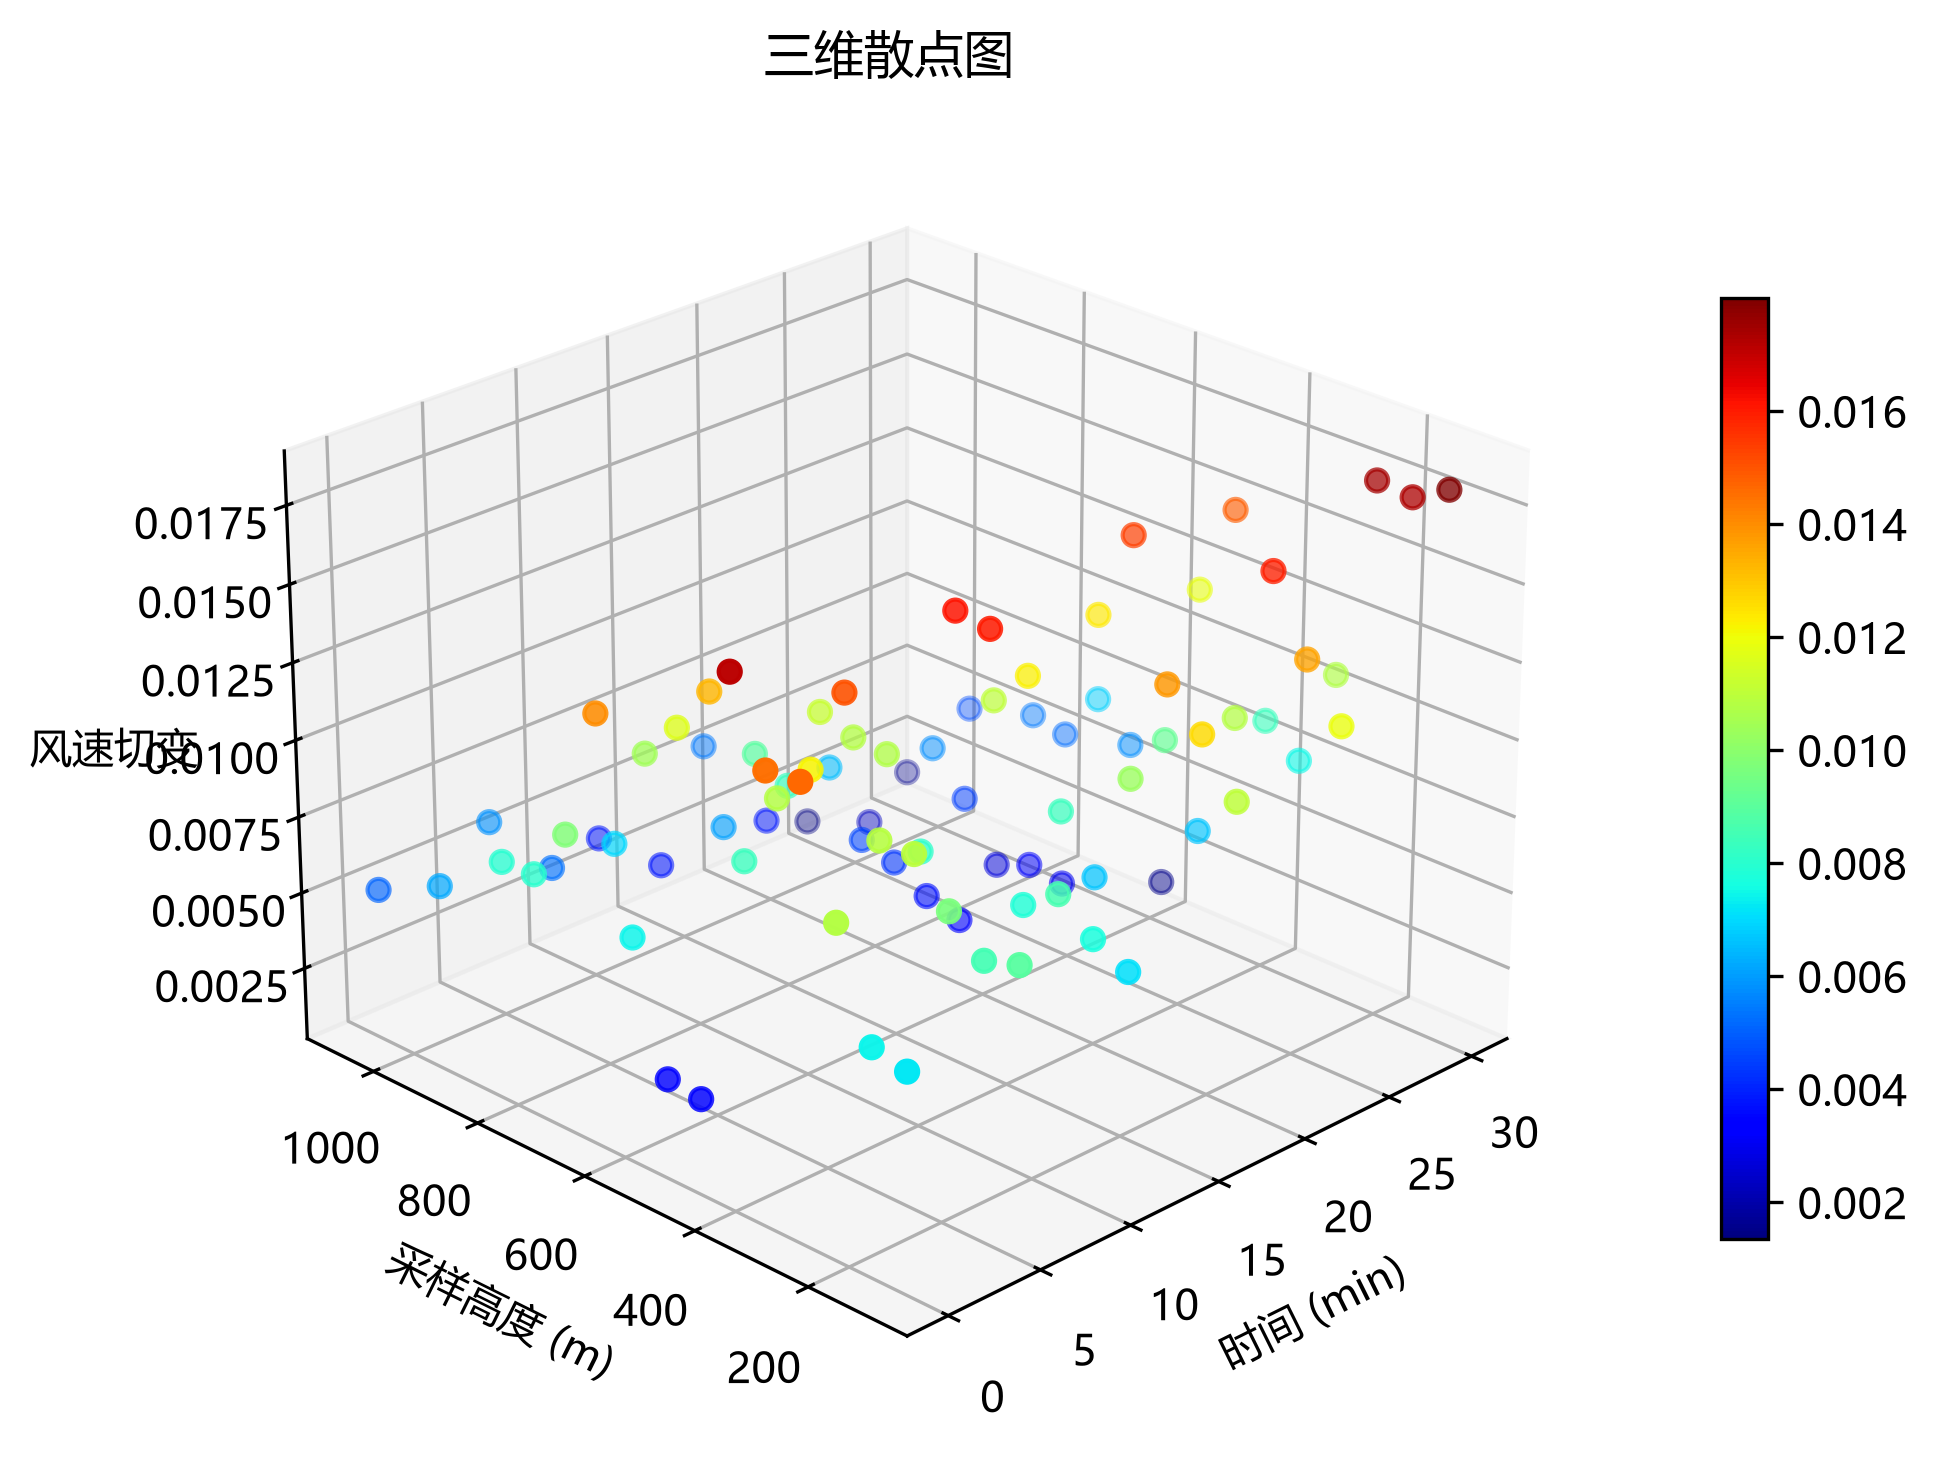
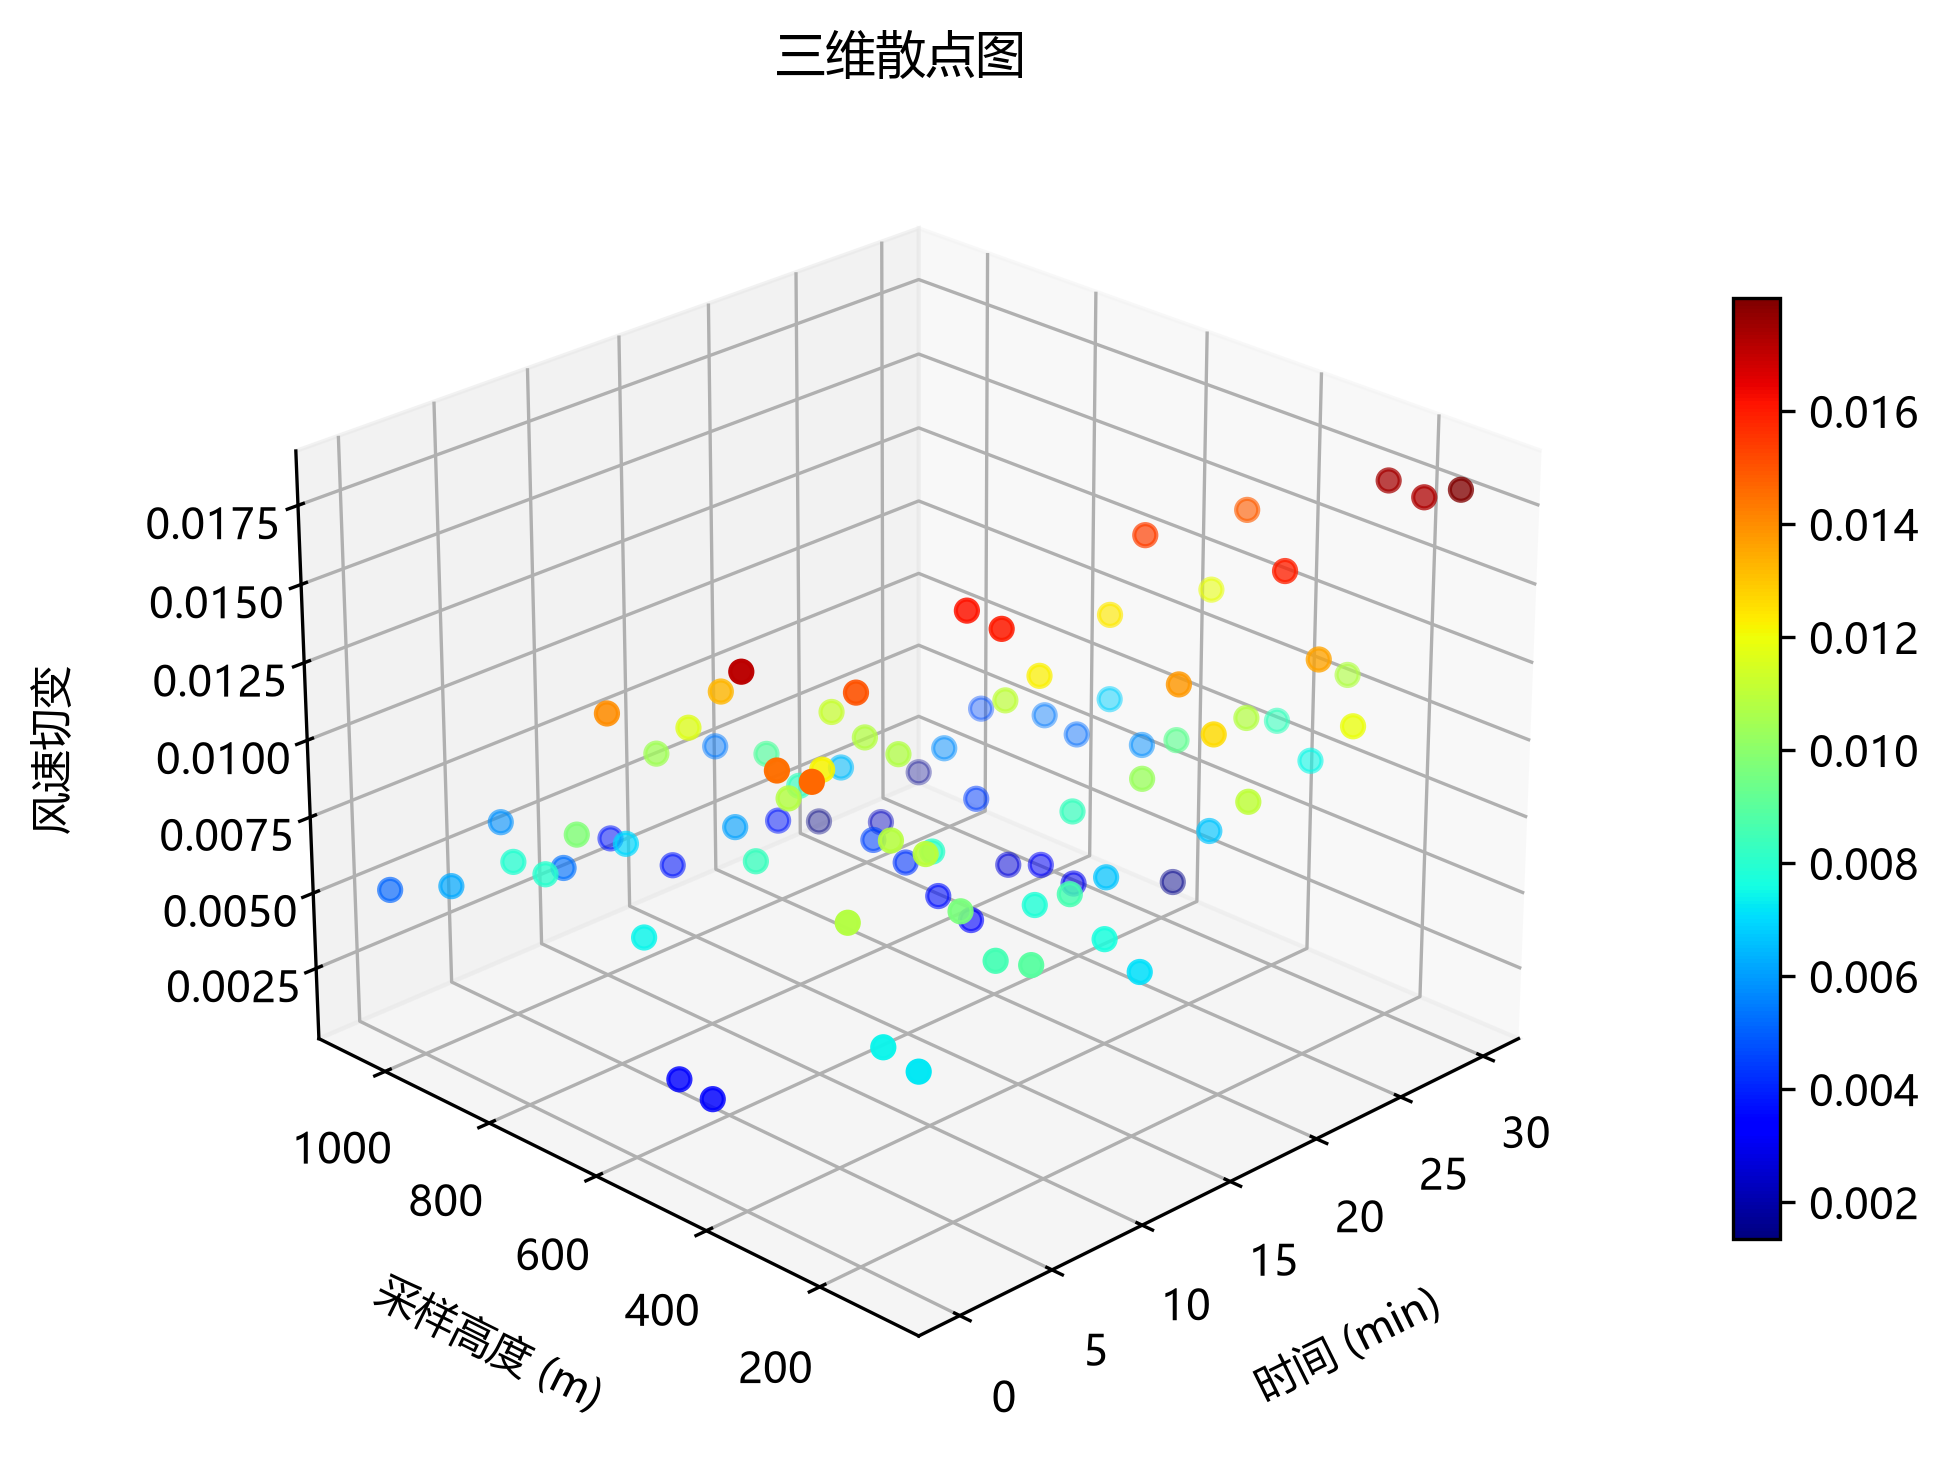
debug:纵轴标题竖向显示

diff --git a/src/utils/plot_utils.py b/src/utils/plot_utils.py
@@ -535,9 +535,10 @@ def plot_3d_scatter(
 
 
 def _set_3d_labels(ax: plt.Axes, title, xlabel, ylabel, zlabel) -> None:
-    ax.set_xlabel(xlabel)
-    ax.set_ylabel(ylabel)
-    ax.set_zlabel(zlabel)
+    ax.set_xlabel(xlabel, labelpad=10)
+    ax.set_ylabel(ylabel, labelpad=10)
+    ax.zaxis.set_rotate_label(False)
+    ax.set_zlabel(zlabel, labelpad=14, rotation=90)
     if title:
         ax.set_title(title)
 
